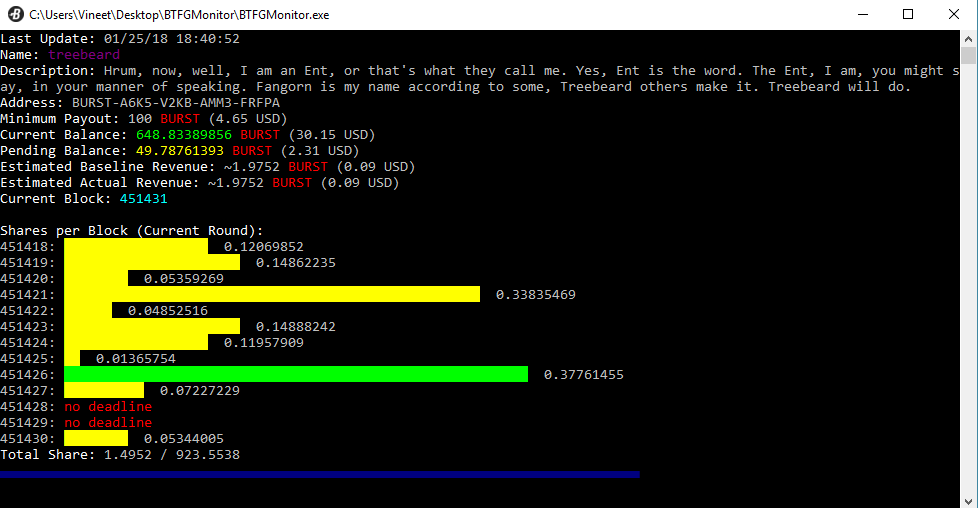
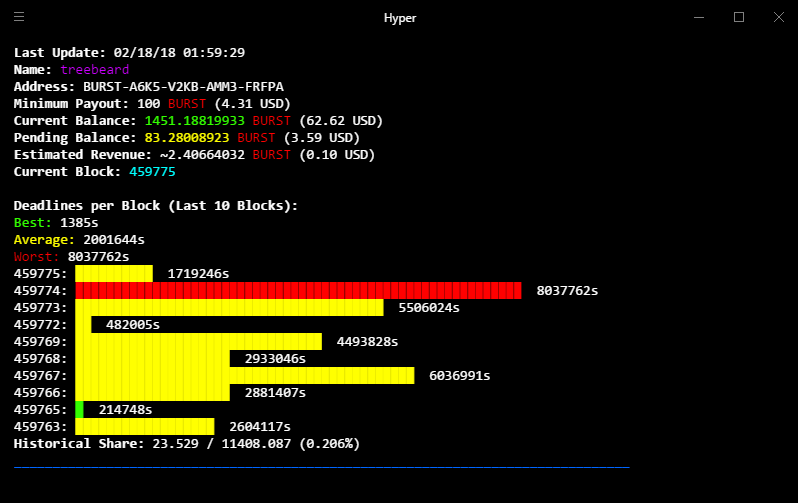
BTFG monitor v2

Changed region(s): [[0.0, 0.0, 1.0, 1.0]]

diff --git a/BTFGMonitor.py b/BTFGMonitor.py
@@ -60,7 +60,7 @@ def horizontal_rows(labels, data, normal_dat):
 		label = "{}: ".format(labels[i])
 		value = data[i]
 		num_blocks = normal_dat[i]
-		tail = ' {}{}'.format('{:.8f}'.format(value), '')
+		tail = ' {}{}'.format('{:.0f}'.format(value), '')
 		yield (label, value, int(num_blocks), val_min, val_max, tail)
 
 def print_row(label, value, num_blocks, val_min, val_max, tail):
@@ -72,47 +72,74 @@ def print_row(label, value, num_blocks, val_min, val_max, tail):
 		#prints a single tick for positive data points normalized to < 1
 		
 		if value <= val_min:
-			sys.stdout.write('\x1b[1;31;40m' + TICK + '\x1b[0m')
-			print(" " + str(tail))
+			sys.stdout.write('\x1b[1;32;40m' + TICK + '\x1b[0m')
+			print(" " + str(tail) + "s")
 		else:
 			sys.stdout.write('\x1b[1;33;40m' + TICK + '\x1b[0m')
-			print(" " + str(tail))
+			print(" " + str(tail) + "s")
 	else:
 		#prints 2 ticks for normalized data > 1
 		if value >= val_max:
 			for i in range(num_blocks):
-				sys.stdout.write('\x1b[1;32;40m' + TICK+TICK +'\x1b[0m')
-			print(" " + str(tail))
+				sys.stdout.write('\x1b[1;31;40m' + TICK+TICK +'\x1b[0m')
+			print(" " + str(tail) + "s")
 		else:
 			for i in range(num_blocks):
 				sys.stdout.write('\x1b[1;33;40m' + TICK+TICK + '\x1b[0m')
-			print(" " + str(tail))
+			print(" " + str(tail) + "s")
 
 # PRINT FUNCTIONS
-def print_output(blockLabels, blockShares, accountData, pendingPayment, totalShare, minerShare, totalPending):
+def print_output(data, accountData):
 	"""Main print function"""
 	#print current time
 	print('\x1b[1m' + "Last Update: " + '\x1b[0m' + time.strftime("%x") + " " + time.strftime("%X"))
 	#print wallet data
-	print_account_data(accountData)
+	if "Name" in data["Account"]:
+		print('\x1b[1m' + "Name: " + '\x1b[0m' + '\x1b[0;35;40m' + data["Account"]["Name"] + '\x1b[0m')
+	if "Description" in data["Account"]:
+		print('\x1b[1m' + "Description: " + '\x1b[0m' + data["Account"]["Description"])
+	if "Address" in data["Account"]:
+		print('\x1b[1m' + "Address: " + '\x1b[0m' + data["Account"]["Address"])
+	if "Threshold" in data["Burst"]:
+		print('\x1b[1m' + "Minimum Payout: " + '\x1b[0m' + data["Burst"]["Threshold"] + '\x1b[1;31;40m' + " BURST" + '\x1b[0m' + fiatConversion(data["Burst"]["Threshold"]))
+	
+	print_current_balance(accountData)
+
 	#print pending payment
-	print('\x1b[1m' + "Pending Balance: " + '\x1b[0m' + '\x1b[1;33;40m' + str(pendingPayment) + '\x1b[0m' + '\x1b[1;31;40m' + " BURST" + '\x1b[0m' + fiatConversion(pendingPayment))
+	if "Pending" in data["Burst"]:
+		print('\x1b[1m' + "Pending Balance: " + '\x1b[0m' + '\x1b[1;33;40m' + str(data["Burst"]["Pending"]) + '\x1b[0m' + '\x1b[1;31;40m' + " BURST" + '\x1b[0m' + fiatConversion(data["Burst"]["Pending"]))
 	#print estimated payout
-	print_estimated_reward(totalShare, minerShare, totalPending)
+	if "Estimate" in data["Burst"]:
+		print('\x1b[1m' + "Estimated Revenue: " + '\x1b[0m' + "~" + str(data["Burst"]["Estimate"]) + '\x1b[1;31;40m' + " BURST" + '\x1b[0m' + fiatConversion(data["Burst"]["Estimate"]))
 	#print current block info
 	print_cur_block()
+
+
+	blockLabels = []
+	blockShares = []
+	try:
+		for blockNum in sorted(data["Deadlines"]["Deadlines"].keys()):
+			blockLabels.append(blockNum)
+			blockShares.append(int(data["Deadlines"]["Deadlines"][blockNum]))
+	except:
+		pass
 
 	if (DISPLAY_SHARES == 1):
 		if (len(blockShares) > 0):
 			#normalize data
 			normal_dat = normalize(blockShares)
 
-			print("\n" + '\x1b[1m' + "Shares per Block (Current Round):" + '\x1b[0m')
+			print("\n" + '\x1b[1m' + "Deadlines per Block (Last 10 Blocks):" + '\x1b[0m')
+			if all (key in data["Deadlines"] for key in ("Best","Average", "Worst")):
+				print('\x1b[1;32;40m' + "Best: " + '\x1b[0m' + str(data["Deadlines"]["Best"]) + "s")
+				print('\x1b[1;33;40m' + "Average: " + '\x1b[0m' + str(data["Deadlines"]["Average"]) + "s")
+				print('\x1b[1;31;40m' + "Worst: " + '\x1b[0m' + str(data["Deadlines"]["Worst"]) + "s")
 
 			# Generate data for a row.
 			for row in horizontal_rows(blockLabels, blockShares, normal_dat):
 				print_row(*row)
-			print('\x1b[1m' + "Total Share: " + '\x1b[0m' + str(format(minerShare,'.4f')) + " / " + str(format(totalShare, '.4f')))
+			if all (key in data["Shares"] for key in ("AvgDiff","PoolDiff", "Percent")):
+				print('\x1b[1m' + "Historical Share: " + '\x1b[0m' + str(data["Shares"]["AvgDiff"]) + " / " + str(data["Shares"]["PoolDiff"]) + " (" + str(round(data["Shares"]["Percent"]*100,3)) + "%)")
 		else:
 			print("New round, no new blocks")
 
@@ -120,62 +147,13 @@ def print_output(blockLabels, blockShares, accountData, pendingPayment, totalSha
 		sys.stdout.write('\x1b[2;34;40m' + SPACER + '\x1b[0m')
 	print("")
 
-def print_cur_block():
-	"""Gets and prints the current block number"""
-	url = "https://wallet.burst.cryptoguru.org:8125/burst?requestType=getBlockchainStatus"
-	data = session.get(url)
-	data = data.json()
-	print('\x1b[1m' + "Current Block: " + '\x1b[0m' + '\x1b[1;36;40m' + str(data["numberOfBlocks"]) + '\x1b[0m')
-
-def print_estimated_reward(totalShare, minerShare, totalPending):
-	data = session.get("https://wallet.burst.cryptoguru.org:8125/burst?requestType=getAccount&account=9146480761707329845")
-	data = data.json()
-
-	poolBalance = str(data["effectiveBalanceNXT"])
-	poolBalance = poolBalance[:-8] + '.' + poolBalance[-8:]
-	poolBalance = float(poolBalance)
-
-	blockData = session.get("https://wallet.burst.cryptoguru.org:8125/burst?requestType=getBlocks&firstIndex=1&lastIndex=1")
-	blockData = blockData.json()
-	blockReward = float(blockData["blocks"][0]["blockReward"])
-
-	if totalShare == 0:
-		currentFund = 1
-		estimateBaseline = 0
-		estimateActual = 0
-	else:
-		try:
-			estimateBaseline = (minerShare*blockReward)/totalShare
-			estimateBaseline = format(estimateBaseline, '.4f')
-
-			#currentFund = max((poolBalance + blockReward - totalPending - 3000), blockReward)
-			currentFund = blockReward + ((poolBalance - totalPending)*.1)
-			estimateActual = (currentFund/totalShare)*minerShare
-			estimateActual = format(estimateActual,'.4f')
-		except:
-			currentFund = 1
-			estimateBaseline = "N/A"
-			estimateActual = "N/A"
-	print('\x1b[1m' + "Estimated Baseline Revenue: " + '\x1b[0m' + "~" + str(estimateBaseline) + '\x1b[1;31;40m' + " BURST" + '\x1b[0m' + fiatConversion(estimateBaseline))
-	if currentFund <= 0:
-		print('\x1b[1m' + "Estimated Actual Revenue: " + '\x1b[0m' + "Payment Deferred")
-	else:
-		print('\x1b[1m' + "Estimated Actual Revenue: " + '\x1b[0m' + "~" + str(estimateActual) + '\x1b[1;31;40m' + " BURST" + '\x1b[0m' + fiatConversion(estimateActual))
-
-
-def print_account_data(data):
-	"""Prints user wallet data"""
+def print_current_balance(data):
+	"""Prints user wallet balance"""
 	try:
 		if "errorCode" in data:
 			#failed burst address/ID
 			print("Error: " + data["errorDescription"])
 		else:
-			#parse and print wallet name, address, and current balance
-			burstAddress = data["accountRS"]
-			minPayoutThreshold = str(minPayout(burstAddress))
-			if minPayoutThreshold == "Pool Default":
-				minPayoutThreshold = str(20)
-
 			try:
 				currentBalance = data["balanceNQT"]
 				balanceDigits = len(currentBalance)
@@ -190,96 +168,27 @@ def print_account_data(data):
 			except:
 				currentBalance = "N/A"
 
-			if "name" in data:
-				print('\x1b[1m' + "Name: " + '\x1b[0m' + '\x1b[0;35;40m' + data["name"] + '\x1b[0m')
-			if "description" in data:
-				print('\x1b[1m' + "Description: " + '\x1b[0m' + data["description"])
-			print('\x1b[1m' + "Address: " + '\x1b[0m' + burstAddress)
-			print('\x1b[1m' + "Minimum Payout: " + '\x1b[0m' + minPayoutThreshold + '\x1b[1;31;40m' + " BURST" + '\x1b[0m' + fiatConversion(minPayoutThreshold))
 			print('\x1b[1m' + "Current Balance: " + '\x1b[0m' + '\x1b[1;32;40m' + currentBalance + '\x1b[0m' + '\x1b[1;31;40m' + " BURST" + '\x1b[0m' + fiatConversion(currentBalance))
 	except:
-		print("Error: Printing Account JSON data failed")
+		print("Error: Printing current wallet balance failed")
+		pass
 
-# JSON PROCESSING
-def burst_data():
-	"""Main data processing"""
-	data = ""
-	accountData = ""
-	try:
-		#get pool data
-		data = session.get('http://104.128.234.137/pool-payments.json')
-		data = data.json()
-
-		#get user wallet data
-		accountData = session.get("https://wallet.burst.cryptoguru.org:8125/burst?requestType=getAccount&account=" + numeric_id)
-		accountData = accountData.json()
-	except:
-		print("Error: Processing pool and account JSON data failed")
-
-	#get pool pending payout
-	try:
-		if numeric_id in data["pendingPaymentList"]:
-			pending = data["pendingPaymentList"][numeric_id]
-			pending = '{:.8f}'.format(pending)
-		else:
-			pending = 0
-	except:
-		pending = "N/A"
-
-	totalPending = 0
-	try:
-		for pending_id in data["pendingPaymentList"]:
-			totalPending += data["pendingPaymentList"][pending_id]
-		totalPending = float(totalPending)
-
-	except:
-		totalPending = 0
-
-	#parse pool data
-	blockLabels = []
-	blockShares = []
-	totalShare = 0
-	minerShare = 0
-	try:
-		for block in data["blockPaymentList"]:
-			blockLabels.append(block["height"])
-			totalShare += block["totalShare"]
-			shareFound = 0
-			for share in block["shareList"]:
-				if share["accountId"] == numeric_id:
-					blockShares.append(share["share"])
-					minerShare += share["share"]
-					shareFound = 1
-			if shareFound == 0:
-				blockShares.append(0.0)
-	except:
-		print("Error: Processing blocks and shares failed")
-
-	#clears screen after each round
-	os.system('cls' if os.name == 'nt' else 'clear')
-
-	#std output function (print)
-	print_output(blockLabels, blockShares, accountData, pending, totalShare, minerShare, totalPending)
+def print_cur_block():
+	"""Gets and prints the current block number"""
+	url = "https://wallet.burst.cryptoguru.org:8125/burst?requestType=getBlockchainStatus"
+	data = session.get(url)
+	data = data.json()
+	print('\x1b[1m' + "Current Block: " + '\x1b[0m' + '\x1b[1;36;40m' + str(data["numberOfBlocks"]) + '\x1b[0m')
 
 # UTILITY FUNCTIONS
-def burst_to_numeric(numeric_id):
+def burst_to_numeric(address):
 	"""Converts a burst address into a numeric id"""  
 	try:
-		accountData = session.get("https://wallet.burst.cryptoguru.org:8125/burst?requestType=getAccount&account=" + numeric_id)
+		accountData = session.get("https://wallet.burst.cryptoguru.org:8125/burst?requestType=getAccount&account=" + address)
 		accountData = accountData.json()
 		return accountData["account"]
 	except:
 		print("Error: Converting Burst Address to numeric id failed")
-
-def minPayout(burstAddress):
-	minPayoutThreshold = 0
-	try:
-		data = session.get('http://burst.btfg.space:8000/btfgminpayment.php?address=' + burstAddress)
-		data = data.json()
-
-		return data["Threshold"]
-	except:
-		return "N/A"
 
 def fiatConversion(burstAmt):
 	fiatVal = 0
@@ -299,13 +208,35 @@ def fiatConversion(burstAmt):
 			fiatVal = '{:0.2f}'.format(fiatVal)
 			return " (" + fiatVal + " USD" + ")"
 
+# JSON PROCESSING
+def burst_data():
+	"""Main data processing"""
+	data = ""
+	try:
+		#get pool data
+		data = session.get('http://burst.btfg.space:8000/btfgmonitor.php?api=' + API_KEY + '&id=' + numeric_id)
+		data = data.json()
+
+		#get user wallet data
+		accountData = session.get("https://wallet.burst.cryptoguru.org:8125/burst?requestType=getAccount&account=" + numeric_id)
+		accountData = accountData.json()
+	except:
+		print("Error: Processing JSON data failed")
+
+	#clears screen after each round
+	os.system('cls' if os.name == 'nt' else 'clear')
+
+	#std output function (print)
+	print_output(data, accountData)
+
 # MAIN
 if __name__ == "__main__":
 	#default config
 	MAX_WIDTH = 40
 	DISPLAY_SHARES = 1
-	INTERVAL = 360
+	INTERVAL = 300
 	CURRENCY = "USD"
+	API_KEY = "" #Enter BTFG API Key here
 
 	#chart character
 	TICK = b'\xe2\x96\x88'.decode('utf-8')
@@ -317,8 +248,8 @@ if __name__ == "__main__":
 	#Handle user input and config
 	config = configparser.ConfigParser()    
 
-	print('\x1b[1m' + "BTFG Monitor v1.2" + '\x1b[0m')
-	print("created by " + '\x1b[0;34;46m' + "velagand\n" + '\x1b[0m')
+	print('\x1b[1m' + "BTFG Monitor v2.0" + '\x1b[0m')
+	print("created by " + '\x1b[0;34;46m' + "treebeard\n" + '\x1b[0m')
 
 	if not os.path.exists('BTFGMonitor.ini'):
 		#if no config file
@@ -331,7 +262,7 @@ if __name__ == "__main__":
 		#user config
 		print('\x1b[0;31;47m' + "\nLeave the following blank for default values (hit enter):" + '\x1b[0m')
 		shares_input = six.moves.input('\x1b[1m' + "Display Block Shares (default=yes): " + '\x1b[0m').strip().lower()
-		interval_input = six.moves.input('\x1b[1m' + "Update Frequency (default=360, minimum=60): " + '\x1b[0m').strip()
+		interval_input = six.moves.input('\x1b[1m' + "Update Frequency (default=300, minimum=300): " + '\x1b[0m').strip()
 		width_input = six.moves.input('\x1b[1m' + "Max Chart Width (default=40): " + '\x1b[0m').strip()
 		currency_input = six.moves.input('\x1b[1m' + "Currency (default=USD): " + '\x1b[0m').strip()
 
@@ -360,7 +291,7 @@ if __name__ == "__main__":
 	if shares_input == 'no' or shares_input=='n':
 		DISPLAY_SHARES = 0
 
-	if not interval_input or int(interval_input) < 60:
+	if not interval_input or int(interval_input) < 300:
 		pass
 	else:
 		INTERVAL = int(interval_input)

diff --git a/README.md b/README.md
@@ -21,26 +21,13 @@ Run in Windows using the executable file (found under 'releases'), or with Pytho
 
 **Pending Balance** - Your pool earnings which have not yet hit the minimum payout.
 
-**Estimated Baseline Revenue** - Your estimated earnings if the pool were to win the current block (uses only block reward in calculation).
-
-```python
-estimateBaseline = (minerShare*blockReward)/totalShare
-```
-
-**Estimated Actual Revenue** - Your estimated earnings if the pool were to win the current block (uses both pool balance and block reward in calculation).
-
-```python
-currentFund = blockReward + ((poolBalance - totalPending)*.1)
-estimateActual = (currentFund/totalShare)*minerShare
-```
+**Estimated Revenue** - Your estimated earnings if the pool were to win the current block (based on your historical share percentage).
 
 **Current Block** - The current block that the network is on.
 
-**Shares per Block** - Your mining share in the pool for each block in the current round.
+**Deadlines per Block** - Your deadlines in the pool for the last 10 blocks (in seconds).
 
-**Total Share** - Your mining share in the pool for the current round.
-
-**Payment Deferred** - BTFG pool does not pay based off of block reward. It pays based on the pool balance and the amount pending in order to ensure that 100% of the funds, including dust accumulation, is paid back to miners. It is also how we distribute the dividends, from the BTFG asset that the pool earns, back to miners. However, this may cause an issue during multiple quick block finds: That is, miners as a whole may end up getting paid more than they should. "Payment Deferred" is the pool's way of equalizing the books. You will still make the same for that block, but you would have recieved a partial advance from that multiple block find. Your shares are kept past the next block find and will be applied to the win after that.
+**Historical Share** - Your mining share in the pool.
 
 ## Forks
 
